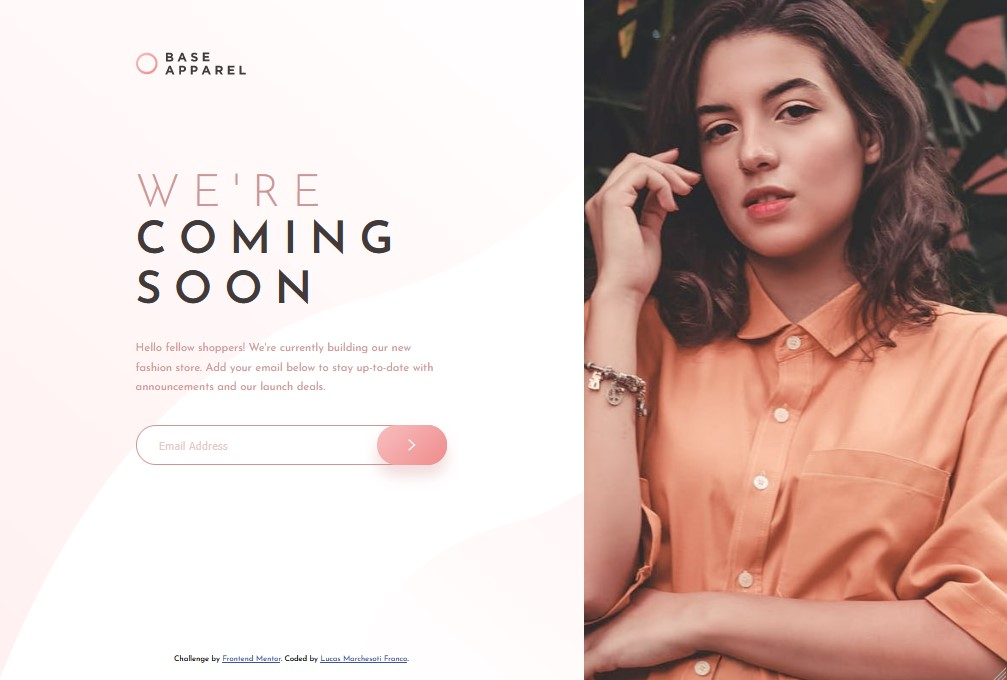
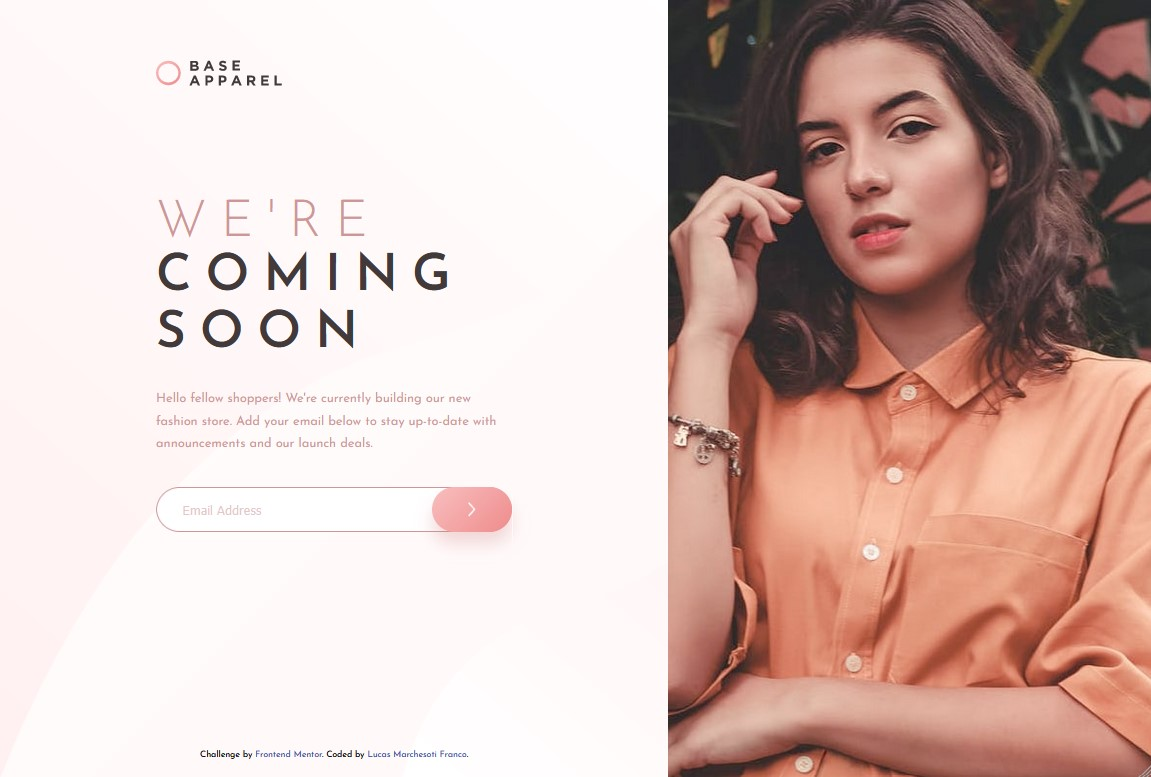
Fix desktop background on base-apparel-coming-soon

diff --git a/base-apparel-coming-soon/css/queries.css b/base-apparel-coming-soon/css/queries.css
@@ -1,7 +1,8 @@
 /* DESKTOP (800px) */
 @media (min-width: 50em) {
   body {
-    background-image: url('../images/bg-pattern-desktop.svg');
+    background-image: url('../images/bg-pattern-desktop.svg'),
+      linear-gradient(135deg, hsl(0, 0%, 100%), hsl(0, 100%, 98%));
     background-position: top left;
     background-size: contain;
     display: grid;
